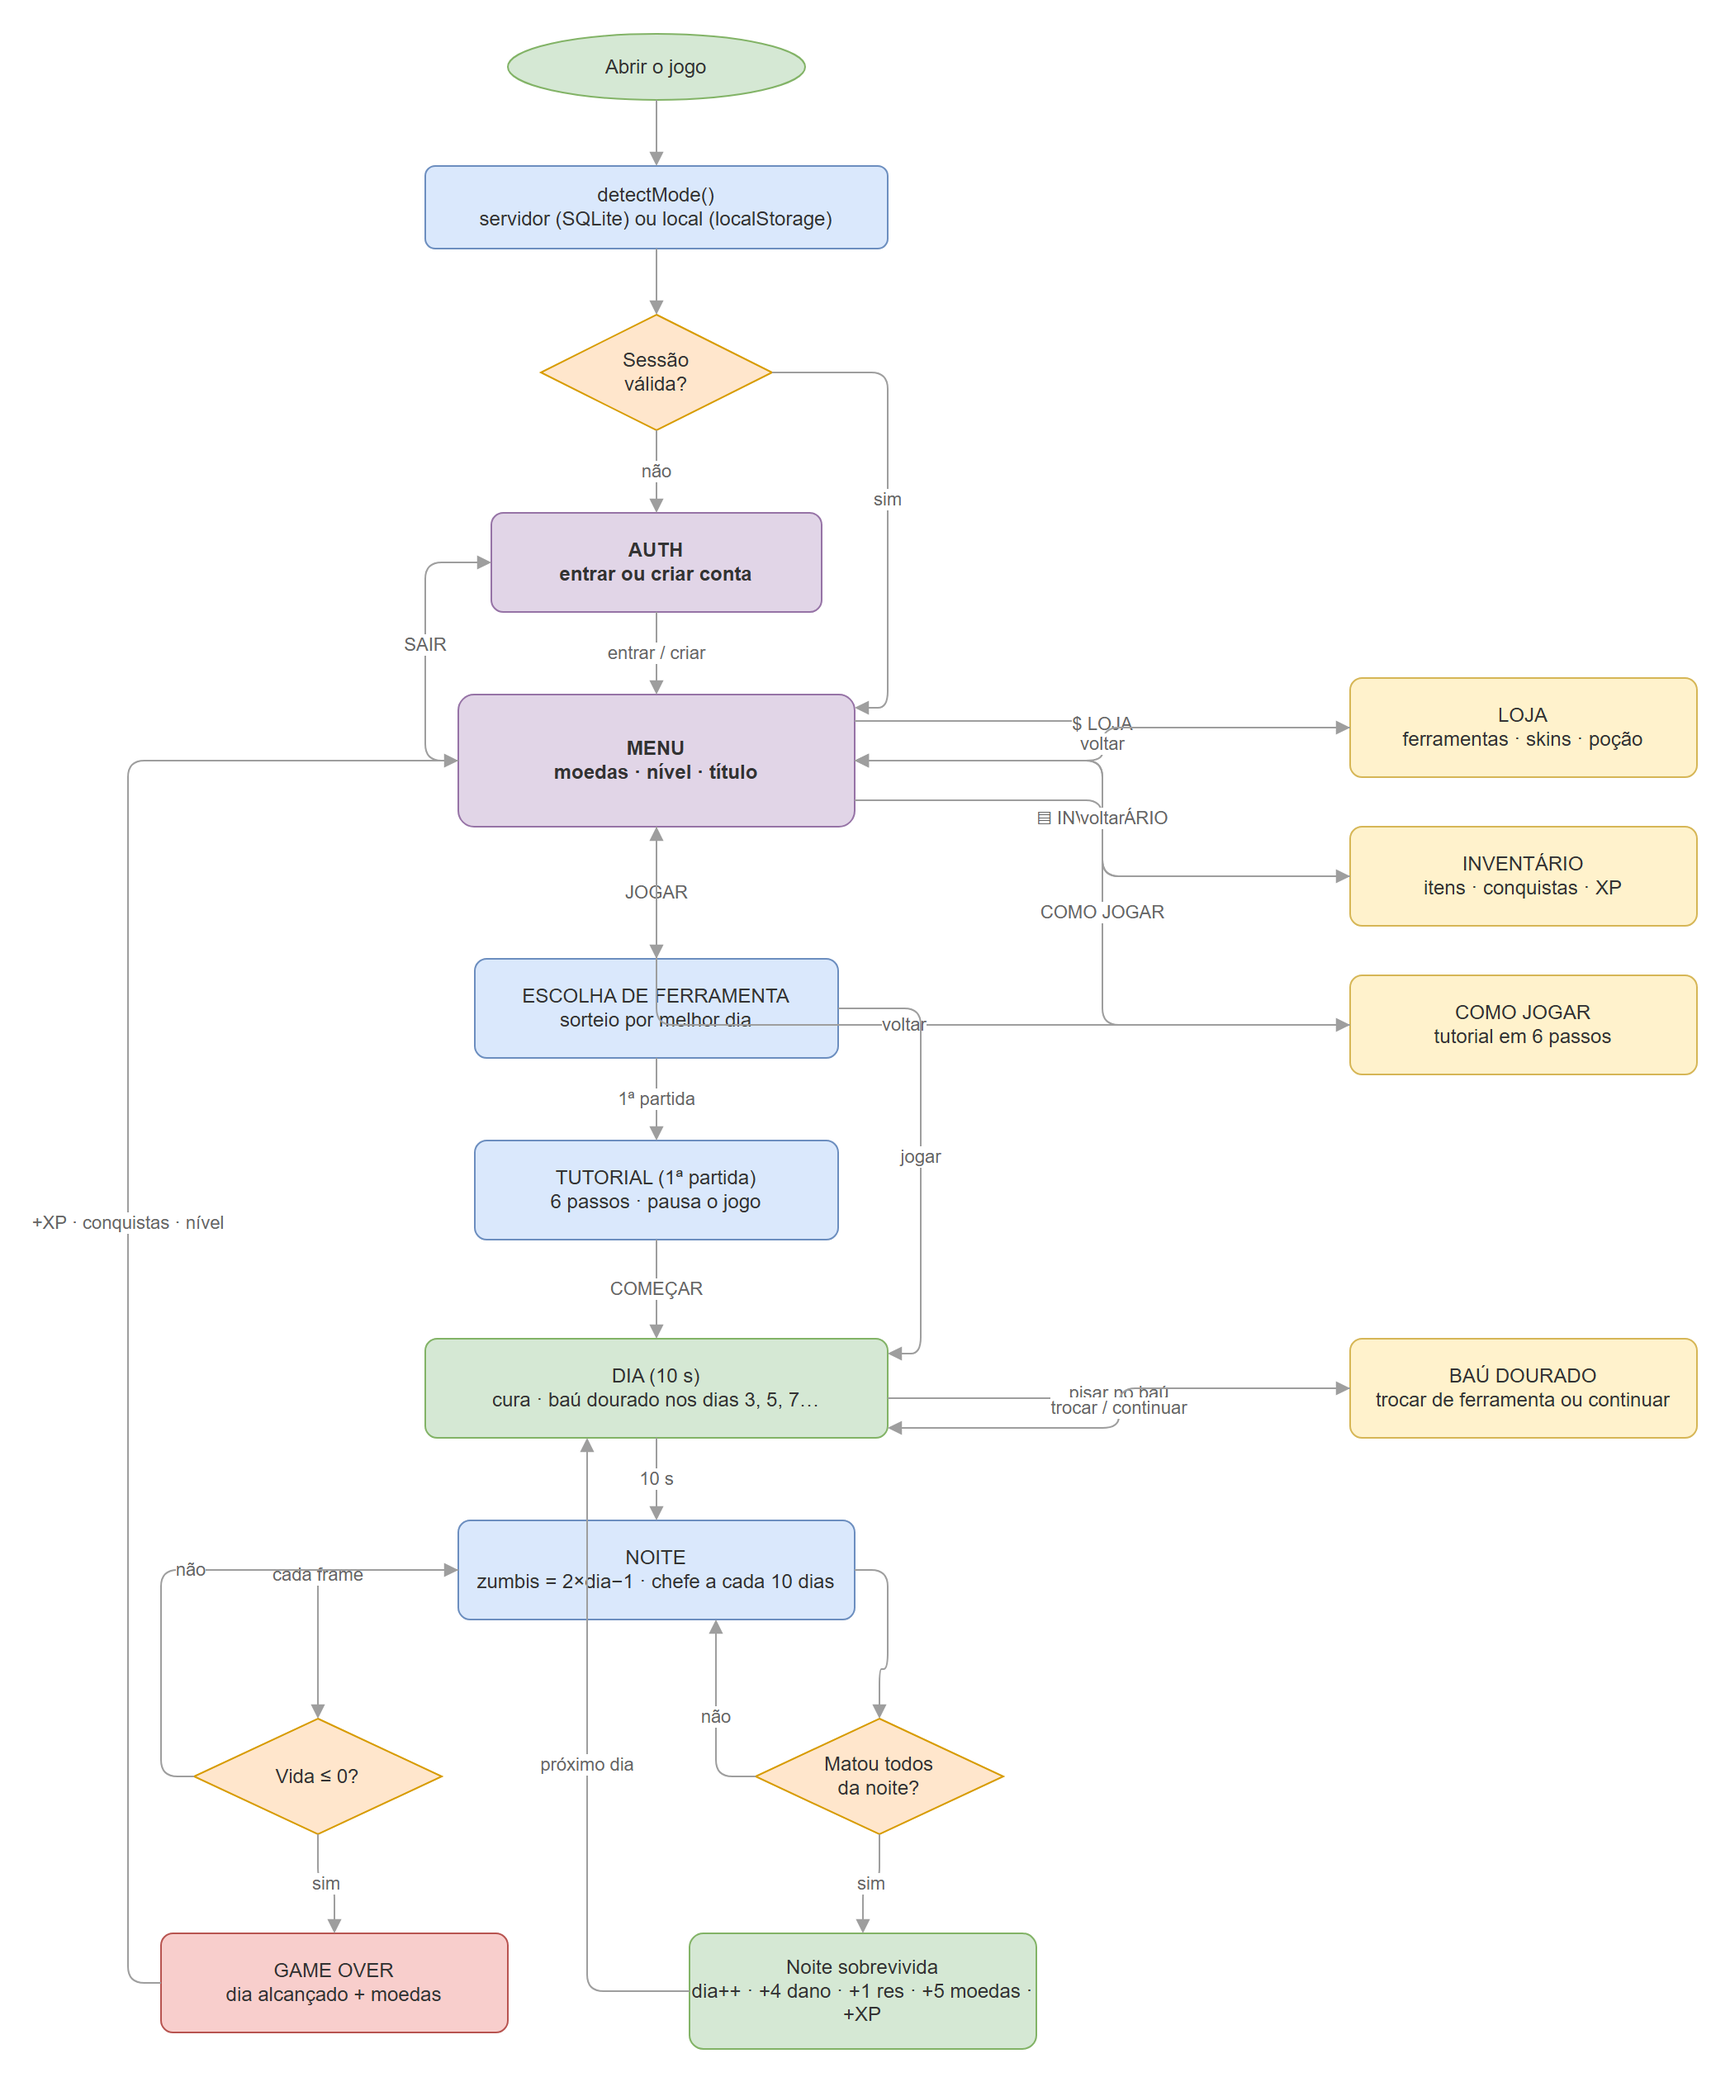
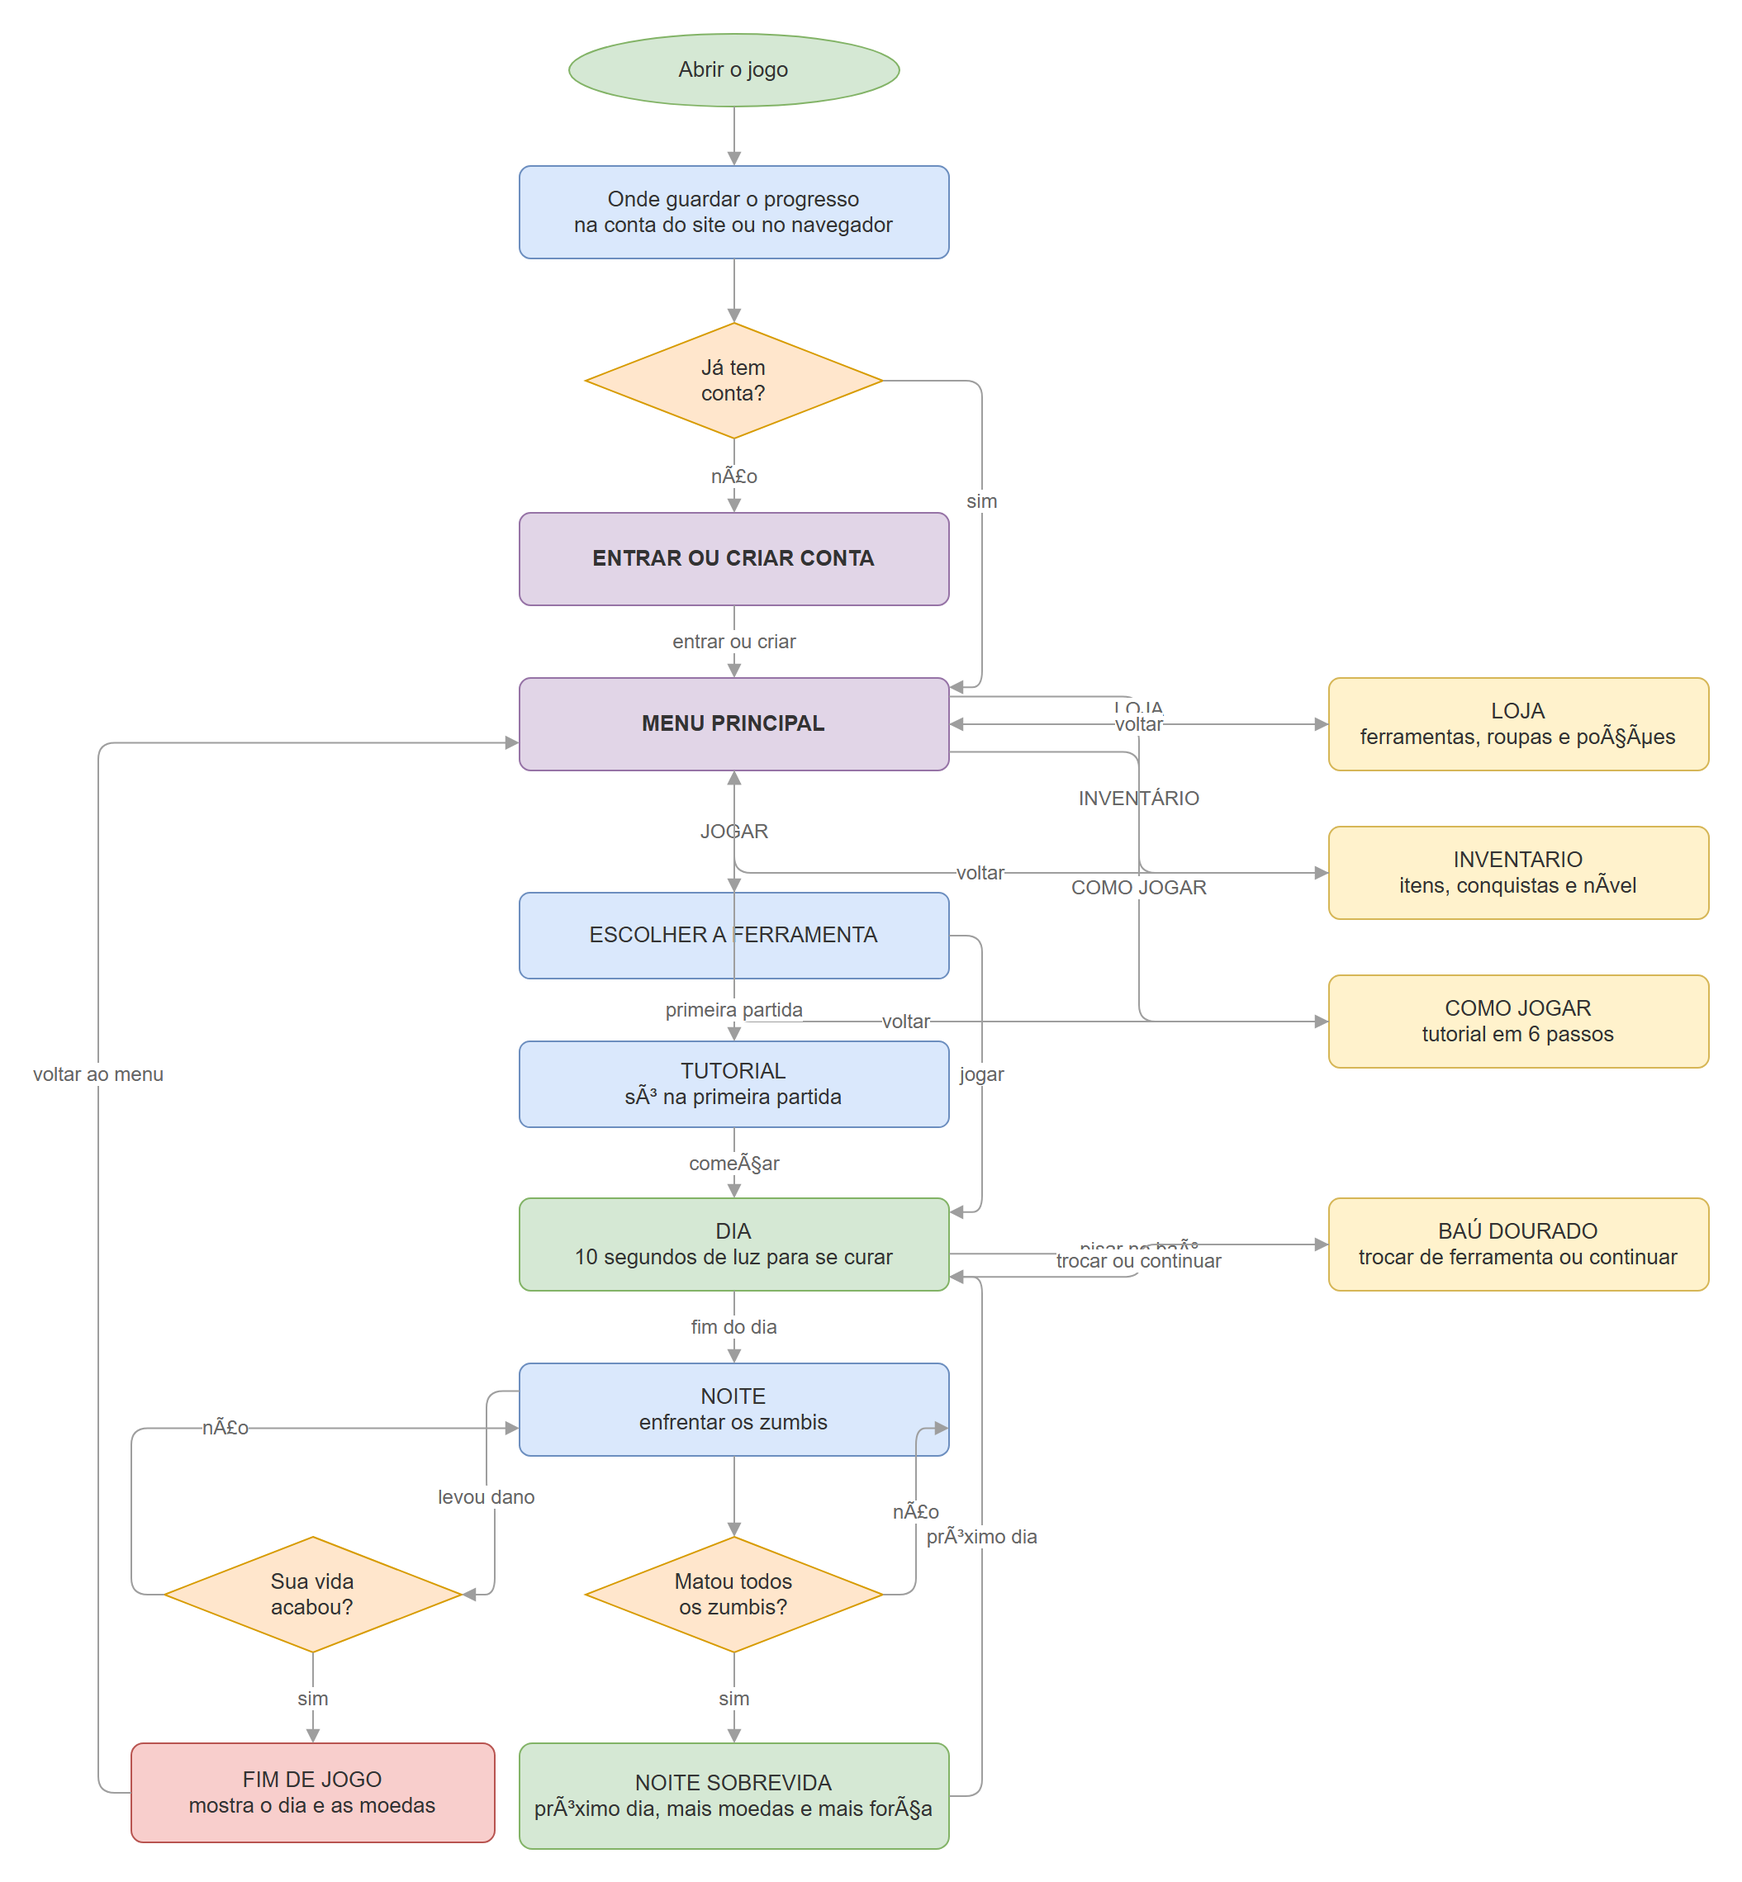
Fluxograma sem termos de codigo (linguagem simples) e layout organizado

diff --git a/README.md b/README.md
@@ -302,7 +302,7 @@ Para depurar no console do navegador, abra com `?debug=1` para expor `window.__j
 
 ![Fluxograma do jogo](fluxograma.png)
 
-O diagrama mostra o fluxo completo do jogo: **modo de armazenamento (servidor/local) → login → menu → escolha de ferramenta → tutorial → dia (10 s) → noite → baú dourado → game over → próximo dia**, com as telas de loja, inventário e "como jogar" saindo do menu.
+O diagrama mostra o caminho do jogador: **abrir o jogo → escolher onde guardar o progresso → entrar ou criar conta → menu → escolher a ferramenta → tutorial da primeira partida → dia → noite → fim de jogo ou noite sobrevivida**, com as telas de **loja**, **inventário** e **como jogar** saindo do menu.
 
 O arquivo-fonte editável está em [`FLUXOGRAMA.drawio`](FLUXOGRAMA.drawio) — abra no [draw.io](https://app.diagrams.net) para editar.
 
